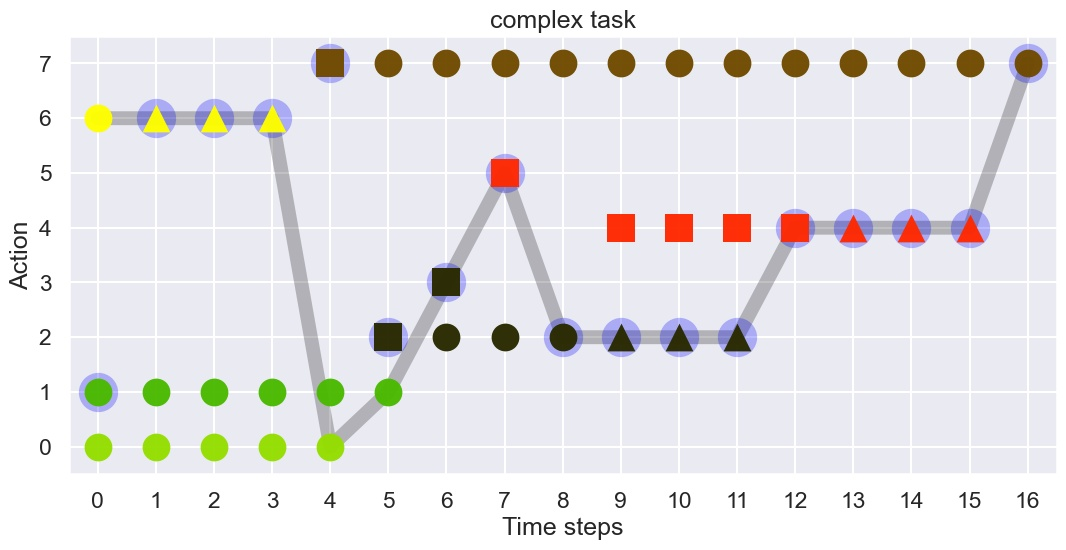
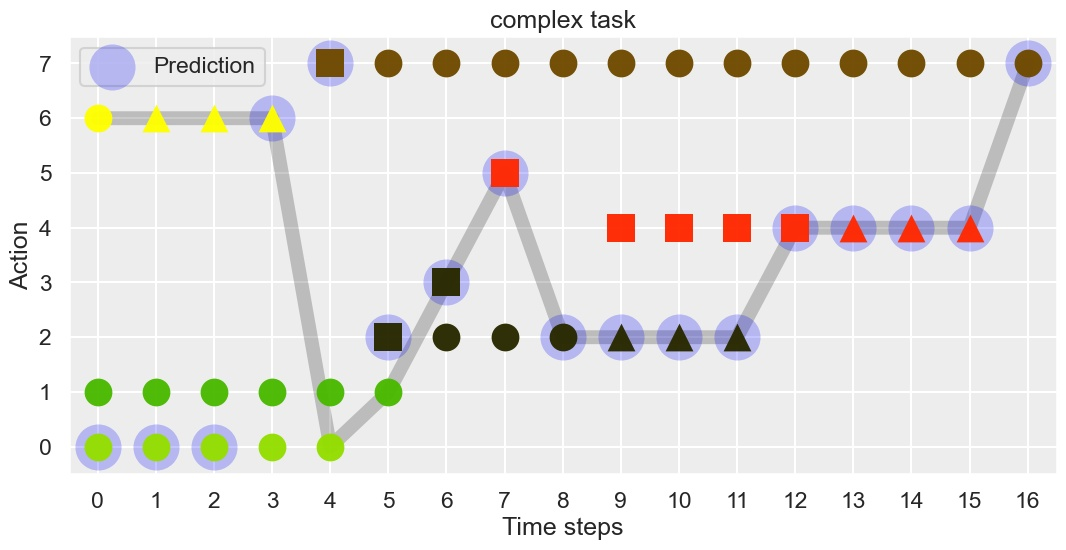
consider all candidates

diff --git a/src/experiments.py b/src/experiments.py
@@ -86,7 +86,7 @@ match_scores, predict_scores, random_scores = [], [], []
 
 # loop over all users
 for i in range(len(canonical_demos)):
-    i = 1
+
     print("=======================")
     print("User:", i)
 
@@ -158,12 +158,12 @@ for i in range(len(canonical_demos)):
 
     if run_proposed:
         # transfer rewards to complex task
-        canonical_weights_abstract = np.ones(6)
         transfer_rewards_abstract = complex_abstract_features.dot(canonical_weights_abstract)
 
         # score for predicting the action based on transferred rewards based on abstract features
         qf_transfer, _, _ = value_iteration(X.states, X.actions, X.transition, transfer_rewards_abstract, X.terminal_idx)
-        predict_sequence, predict_score = predict_trajectory(qf_transfer, X.states, complex_user_demo, X.transition)
+        predict_sequence, predict_score = predict_trajectory(qf_transfer, X.states, complex_user_demo, X.transition,
+                                                             sensitivity=0.0)
         predict_scores.append(predict_score)
 
         if visualize:
@@ -190,7 +190,8 @@ for i in range(len(canonical_demos)):
             random_weights = np.random.rand(6)  # np.random.shuffle(canonical_weights_abstract)
             random_rewards_abstract = complex_abstract_features.dot(random_weights)
             qf_random, _, _ = value_iteration(X.states, X.actions, X.transition, random_rewards_abstract, X.terminal_idx)
-            predict_sequence, r_score = predict_trajectory(qf_random, X.states, complex_user_demo, X.transition)
+            predict_sequence, r_score = predict_trajectory(qf_random, X.states, complex_user_demo, X.transition,
+                                                           sensitivity=0.0)
 
             # score for randomly selecting an action
             # _, r_score = random_trajectory(X.states, complex_user_demo, X.transition)
@@ -209,5 +210,5 @@ if run_proposed:
     np.savetxt("results_final/predict11_normalized_features.csv", predict_scores)
 
 if run_random_baseline:
-    np.savetxt("results_final/random11_normalized_features_random_weights.csv", random_scores)
+    np.savetxt("results_final/random11_normalized_features_random_weights_new.csv", random_scores)
 

diff --git a/src/maxent_irl.py b/src/maxent_irl.py
@@ -197,7 +197,7 @@ def rollout_trajectory(qf, states, demos, transition_function):
     return generated_sequence
 
 
-def predict_trajectory(qf, states, demos, transition_function, sensitivity=0):
+def predict_trajectory(qf, states, demos, transition_function, sensitivity=0, consider_options=False):
 
     demo = demos[0]
     s, available_actions = 0, demo.copy()
@@ -206,9 +206,11 @@ def predict_trajectory(qf, states, demos, transition_function, sensitivity=0):
     for take_action in demo:
         max_action_val = -np.inf
         candidates = []
+        applicants = []
         for a in available_actions:
             p, sp = transition_function(states[s], a)
             if sp:
+                applicants.append(a)
                 if qf[s][a] > (1 + sensitivity) * max_action_val:
                     candidates = [a]
                     max_action_val = qf[s][a]
@@ -227,10 +229,15 @@ def predict_trajectory(qf, states, demos, transition_function, sensitivity=0):
 
         predict_score = []
         options = list(set(candidates))
-        for _ in range(predict_iters):
-            predict_action = np.random.choice(options)
-            predict_score.append(predict_action == take_action)
-        score = np.mean(predict_score)
+        applicants = list(set(candidates))
+
+        if consider_options and (len(options) < len(applicants)):
+            score = take_action in options
+        else:
+            for _ in range(predict_iters):
+                predict_action = np.random.choice(options)
+                predict_score.append(predict_action == take_action)
+            score = np.mean(predict_score)
         scores.append(score)
 
         p, sp = transition_function(states[s], take_action)
@@ -259,7 +266,8 @@ def random_trajectory(states, demos, transition_function):
         if not candidates:
             print(s)
 
-        predict_action = np.random.choice(candidates)
+        options = list(set(candidates))
+        predict_action = np.random.choice(options)
         score.append(predict_action == take_action)
 
         generated_sequence.append(take_action)

diff --git a/src/plot_figures.py b/src/plot_figures.py
@@ -6,8 +6,8 @@ from scipy import stats
 
 predict_scores = np.loadtxt("results_final/predict11_normalized_features.csv")
 random1_scores = np.loadtxt("results_final/random11_normalized_features_random_weights.csv")
-random2_scores = np.loadtxt("results/random11.csv")
-uniform_scores = np.loadtxt("results_final/predict11_normalized_features.csv")
+random2_scores = np.loadtxt("results_final/random11_normalized_features_random_actions.csv")
+uniform_scores = np.loadtxt("results_final/random11_normalized_features_random_weights_new.csv")
 
 n_users, n_steps = np.shape(predict_scores)
 
@@ -16,8 +16,8 @@ predict_users = list(np.sum(predict_scores, axis=1)/n_steps)
 random1_users = list(np.sum(random1_scores, axis=1)/n_steps)
 random2_users = list(np.sum(random2_scores, axis=1)/n_steps)
 uniform_users = list(np.sum(uniform_scores, axis=1)/n_steps)
-print("Random action:", stats.ttest_rel(predict_users, random1_users))
-print("Random weights:", stats.ttest_rel(predict_users, random2_users))
+print("Random weights:", stats.ttest_rel(predict_users, random1_users))
+print("Random actions:", stats.ttest_rel(predict_users, random2_users))
 print("Uniform weights:", stats.ttest_rel(predict_users, uniform_users))
 
 # accuracy at each time steps
@@ -39,7 +39,7 @@ plt.xticks(steps)
 plt.xlabel("Time step")
 plt.ylabel("Accuracy")
 plt.gcf().subplots_adjust(bottom=0.15)
-plt.legend(["proposed", "random weights", "random action", "uniform weights"], loc=4)
+plt.legend(["proposed", "random weights", "random action"], loc=4)
 plt.show()
 # plt.savefig("figures/results11.jpg", bbox_inches='tight')
 

diff --git a/src/assembly_tasks.py b/src/assembly_tasks.py
@@ -132,7 +132,7 @@ class CanonicalTask(AssemblyTask):
     2 - insert wire (short)
     3 - screw long bolt
     4 - screw short bolt
-    5 - screw wire / insert wire (long)
+    5 - insert wire (long)
 
     feature values for each action = [physical_effort, mental_effort]
     """
